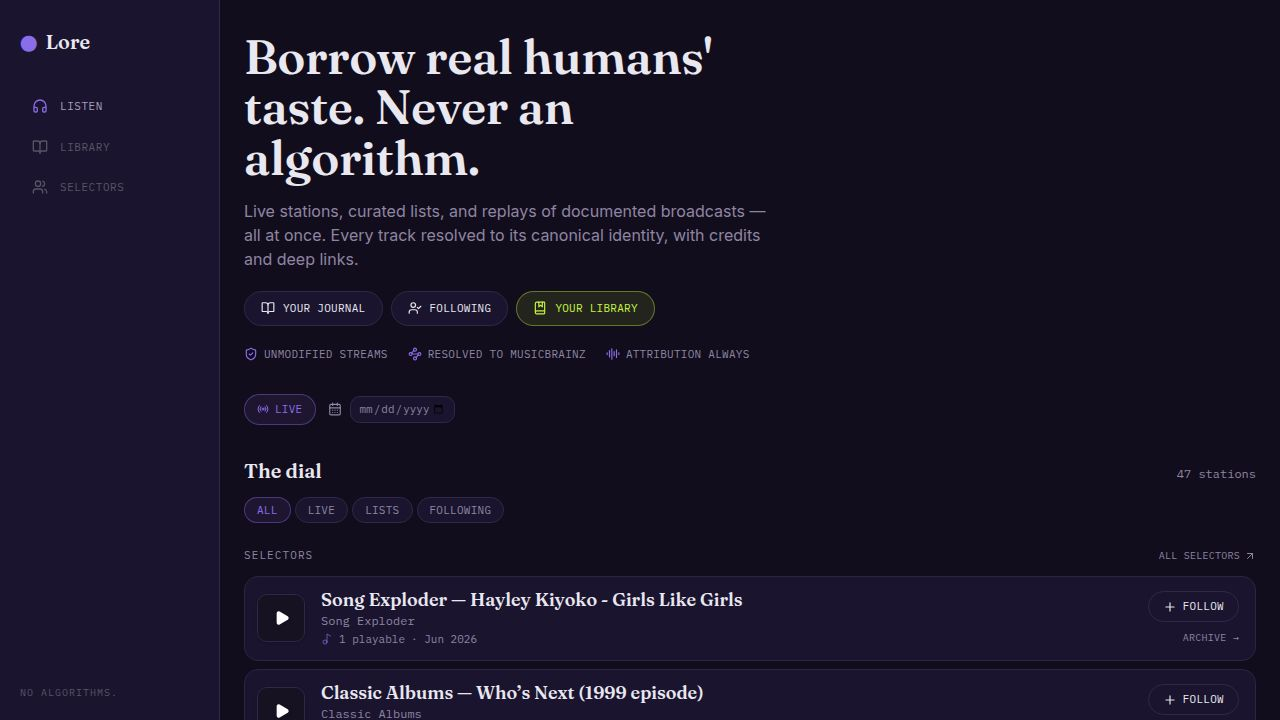
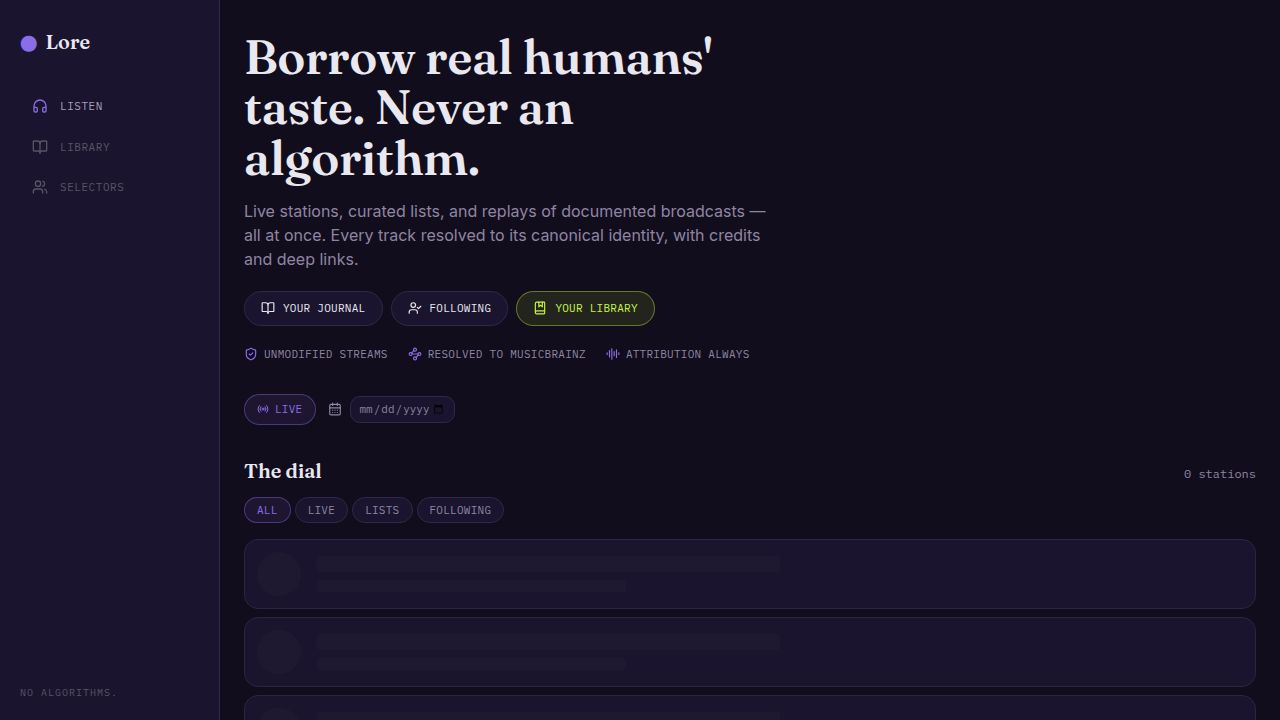
feat: Spinitron ghost-radio curation — ride the picks directly from the archive
Task: Let Spinitron spin history flow into ghost-radio curation (ride the picks)

## What changed

### StationArchive.tsx (artifacts/lore/src/pages/StationArchive.tsx)
- Added Ghost icon import (replaces arrow-only UX)
- Added "Ride most recent" shortcut button at the top of the archive — visible
  when the newest run has ≥1 resolved track; links to ?play=1 to auto-start
  ghost-radio playback immediately
- Restructured run cards: each card now has two distinct actions:
  - Left area: Link to the run detail page (show title, DJ, date, track counts)
  - Right: a primary "Ride" pill button (ghost icon + "Ride") when resolvedCount > 0,
    linking to /archive/station-runs/{runId}?play=1 to start auto-play
  - Falls back to an ArrowUpRight icon link when no tracks are resolved yet
- All data-testid attributes preserved; new ones added: "ride-most-recent",
  "ride-run-{runId}"

### adapters.ts (artifacts/api-server/src/lore/adapters.ts)
- Extended stationArchiveUrl() signature with optional config parameter
  (Record<string, unknown> | null) for station-specific data
- Added "spinitron" case: builds per-station Spinitron calendar URL
  (https://spinitron.com/{handle}/calendar/date/YYYY-MM-DD) when
  nowPlayingConfig.stationHandle is present — enables proper attribution
  links for Spinitron station runs
- Null-safe: returns null when stationHandle is absent (UI gracefully omits)

### stations.ts / archive.ts (routes)
[…]

diff --git a/artifacts/lore/src/pages/StationArchive.tsx b/artifacts/lore/src/pages/StationArchive.tsx
@@ -7,7 +7,7 @@ import { usePlayer } from "../player/PlayerProvider";
 import { FollowButton } from "../components/FollowButton";
 import { ShareButton } from "../components/ShareButton";
 import { runDate } from "../lib/format";
-import { ArrowLeft, ArrowUpRight, Radio, Users } from "lucide-react";
+import { ArrowLeft, ArrowUpRight, Ghost, Radio, Users } from "lucide-react";
 
 /** A station's documented runs — one per show and broadcast day. */
 export default function StationArchive() {
@@ -68,41 +68,76 @@ export default function StationArchive() {
                 Nothing documented yet — the pollers are listening.
               </p>
             ) : (
-              <ul className="flex flex-col gap-2" data-testid="station-runs">
-                {data.runs.map((r) => (
-                  <li key={r.runId}>
+              <>
+                {/* "Ride most recent" shortcut — only shown when the newest run
+                    has at least one resolved track to queue. */}
+                {data.runs[0] && data.runs[0].resolvedCount > 0 && (
+                  <div className="mb-6">
                     <Link
-                      href={`/archive/station-runs/${r.runId}`}
-                      className="hover-elevate flex items-center justify-between gap-3 rounded-xl border border-card-border bg-card p-4"
-                      data-testid={`station-run-${r.runId}`}
+                      href={`/archive/station-runs/${data.runs[0].runId}?play=1`}
+                      data-testid="ride-most-recent"
+                      className="hover-elevate inline-flex items-center gap-2 rounded-full border border-primary-border bg-primary px-5 py-2.5 font-mono text-xs uppercase tracking-wide text-primary-foreground"
                     >
-                      <div className="min-w-0">
-                        <p className="truncate font-serif text-base font-semibold text-foreground">
-                          {r.show?.name ?? "Station stream"}
-                          {r.show?.djName ? (
-                            <span className="text-muted-foreground">
-                              {" "}
-                              · {r.show.djName}
-                            </span>
-                          ) : null}
-                        </p>
-                        <p className="truncate font-mono text-[11px] text-muted-foreground">
-                          {runDate(r.date)} · {r.spinCount} track
-                          {r.spinCount === 1 ? "" : "s"} ·{" "}
-                          <span
-                            className={
-                              r.resolvedCount > 0 ? "text-primary" : ""
-                            }
-                          >
-                            {r.resolvedCount}/{r.spinCount} resolved
-                          </span>
-                        </p>
-                      </div>
-                      <ArrowUpRight className="h-4 w-4 shrink-0 text-muted-foreground" />
+                      <Ghost className="h-4 w-4" />
+                      Ride most recent · {data.runs[0].show?.name ?? "station stream"}
                     </Link>
-                  </li>
-                ))}
-              </ul>
+                  </div>
+                )}
+
+                <ul className="flex flex-col gap-2" data-testid="station-runs">
+                  {data.runs.map((r) => (
+                    <li key={r.runId}>
+                      <div
+                        className="flex items-center gap-3 rounded-xl border border-card-border bg-card p-4"
+                        data-testid={`station-run-${r.runId}`}
+                      >
+                        <Link
+                          href={`/archive/station-runs/${r.runId}`}
+                          className="min-w-0 flex-1"
+                        >
+                          <p className="truncate font-serif text-base font-semibold text-foreground">
+                            {r.show?.name ?? "Station stream"}
+                            {r.show?.djName ? (
+                              <span className="text-muted-foreground">
+                                {" "}
+                                · {r.show.djName}
+                              </span>
+                            ) : null}
+                          </p>
+                          <p className="truncate font-mono text-[11px] text-muted-foreground">
+                            {runDate(r.date)} · {r.spinCount} track
+                            {r.spinCount === 1 ? "" : "s"} ·{" "}
+                            <span
+                              className={
+                                r.resolvedCount > 0 ? "text-primary" : ""
+                              }
+                            >
+                              {r.resolvedCount}/{r.spinCount} resolved
+                            </span>
+                          </p>
+                        </Link>
+                        {r.resolvedCount > 0 ? (
+                          <Link
+                            href={`/archive/station-runs/${r.runId}?play=1`}
+                            data-testid={`ride-run-${r.runId}`}
+                            className="hover-elevate shrink-0 inline-flex items-center gap-1.5 rounded-full border border-primary-border bg-primary px-3 py-1.5 font-mono text-[11px] uppercase tracking-wide text-primary-foreground"
+                          >
+                            <Ghost className="h-3.5 w-3.5" />
+                            Ride
+                          </Link>
+                        ) : (
+                          <Link
+                            href={`/archive/station-runs/${r.runId}`}
+                            className="shrink-0 text-muted-foreground"
+                          >
+                            <ArrowUpRight className="h-4 w-4" />
+                          </Link>
+                        )}
+                      </div>
+                    </li>
+                  ))}
+                </ul>
+              </>
             )}
 
             {overlaps && overlaps.items.length > 0 && (

diff --git a/artifacts/api-server/test/adapters.test.ts b/artifacts/api-server/test/adapters.test.ts
@@ -420,6 +420,23 @@ describe("stationArchiveUrl", () => {
     );
   });
 
+  it("builds Spinitron's per-station calendar URL when stationHandle present", () => {
+    expect(
+      stationArchiveUrl("spinitron", "2026-07-01", { stationHandle: "WFMU" }),
+    ).toBe("https://spinitron.com/WFMU/calendar/date/2026-07-01");
+    expect(
+      stationArchiveUrl("spinitron", "2024-12-25", { stationHandle: "WXYC" }),
+    ).toBe("https://spinitron.com/WXYC/calendar/date/2024-12-25");
+  });
+
+  it("returns null for Spinitron when stationHandle is absent", () => {
+    expect(stationArchiveUrl("spinitron", "2026-07-01")).toBeNull();
+    expect(stationArchiveUrl("spinitron", "2026-07-01", {})).toBeNull();
+    expect(
+      stationArchiveUrl("spinitron", "2026-07-01", { stationHandle: "" }),
+    ).toBeNull();
+  });
+
   it("returns null for sources without a public per-day archive", () => {
     expect(stationArchiveUrl("radio_paradise", "2026-07-01")).toBeNull();
     expect(stationArchiveUrl(null, "2026-07-01")).toBeNull();

diff --git a/artifacts/api-server/src/lore/adapters.ts b/artifacts/api-server/src/lore/adapters.ts
@@ -609,10 +609,14 @@ export function supportsBackfill(source: string | null | undefined): boolean {
  * run must attribute back to where the sequence is documented. Returns null
  * for sources without a public per-day archive (the UI then omits the link;
  * it never fabricates one).
+ *
+ * `config` is the station's `nowPlayingConfig` — some sources (Spinitron)
+ * need a station-specific handle to build the URL.
  */
 export function stationArchiveUrl(
   source: string | null | undefined,
   day: string,
+  config?: Record<string, unknown> | null,
 ): string | null {
   const m = /^(\d{4})-(\d{2})-(\d{2})$/.exec(day);
   if (!source || !m) return null;
@@ -627,6 +631,18 @@ export function stationArchiveUrl(
     // FIP (Radio France) publishes a dated programme grid.
     case "fip":
       return `https://www.radiofrance.fr/fip/grille-programmes?date=${year}-${month}-${dayOfMonth}`;
+    // Spinitron publishes a per-station calendar view. Requires the station's
+    // public handle (e.g. "WFMU") stored in nowPlayingConfig.stationHandle.
+    case "spinitron": {
+      const handle =
+        config &&
+        typeof config.stationHandle === "string" &&
+        config.stationHandle.trim()
+          ? config.stationHandle.trim()
+          : null;
+      if (!handle) return null;
+      return `https://spinitron.com/${encodeURIComponent(handle)}/calendar/date/${year}-${month}-${dayOfMonth}`;
+    }
     default:
       return null;
   }

diff --git a/artifacts/api-server/src/routes/lore/archive.ts b/artifacts/api-server/src/routes/lore/archive.ts
@@ -105,7 +105,7 @@ router.get("/archive/station-runs/:runId", h(async (req, res) => {
         spinCount: rows.length,
         resolvedCount: rows.filter((r) => r.mbid != null).length,
         sourceUrl:
-          stationArchiveUrl(station.nowPlayingSource, anchor.day) ??
+          stationArchiveUrl(station.nowPlayingSource, anchor.day, station.nowPlayingConfig as Record<string, unknown> | null) ??
           rows.map((r) => r.citation).find((c) => c != null) ??
           null,
         startedAt: first.playedAt.toISOString(),

diff --git a/artifacts/api-server/src/routes/lore/stations.ts b/artifacts/api-server/src/routes/lore/stations.ts
@@ -178,7 +178,7 @@ router.get("/stations/:slug/archive", h(async (req, res) => {
         spinCount: r.spinCount,
         resolvedCount: r.resolvedCount,
         sourceUrl:
-          stationArchiveUrl(station.nowPlayingSource, r.date) ??
+          stationArchiveUrl(station.nowPlayingSource, r.date, station.nowPlayingConfig as Record<string, unknown> | null) ??
           r.citation ??
           null,
         startedAt: new Date(r.startedAt).toISOString(),